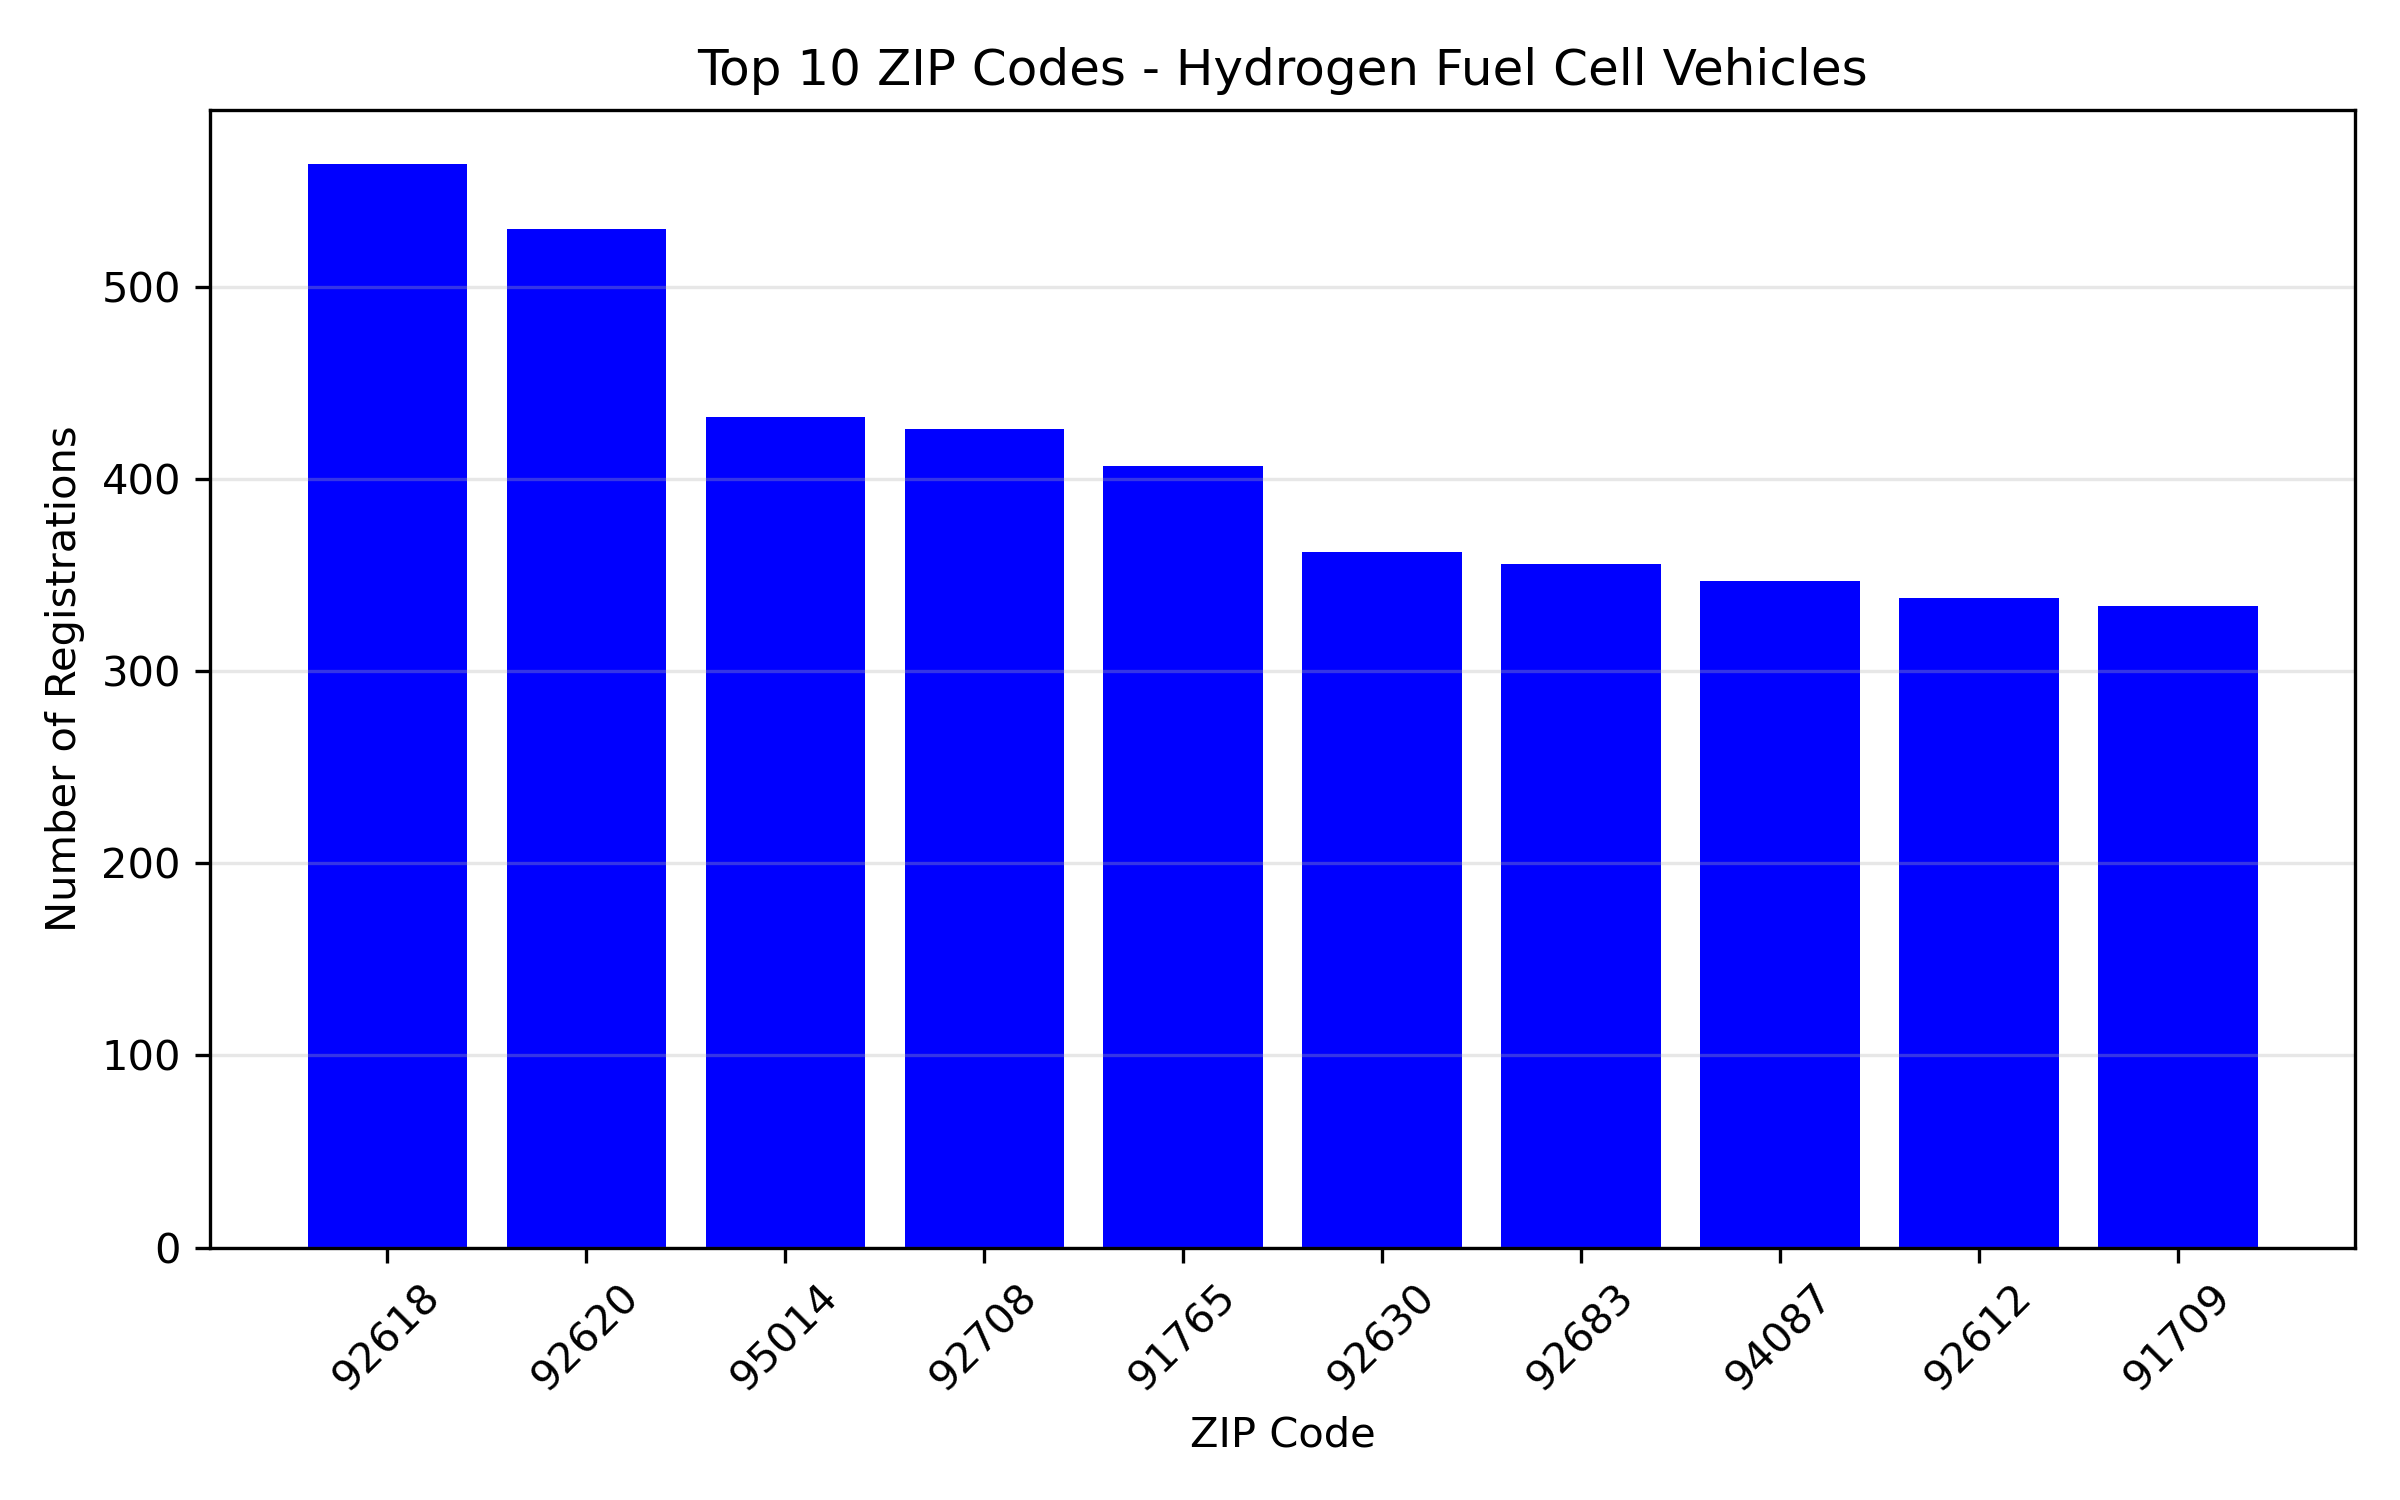
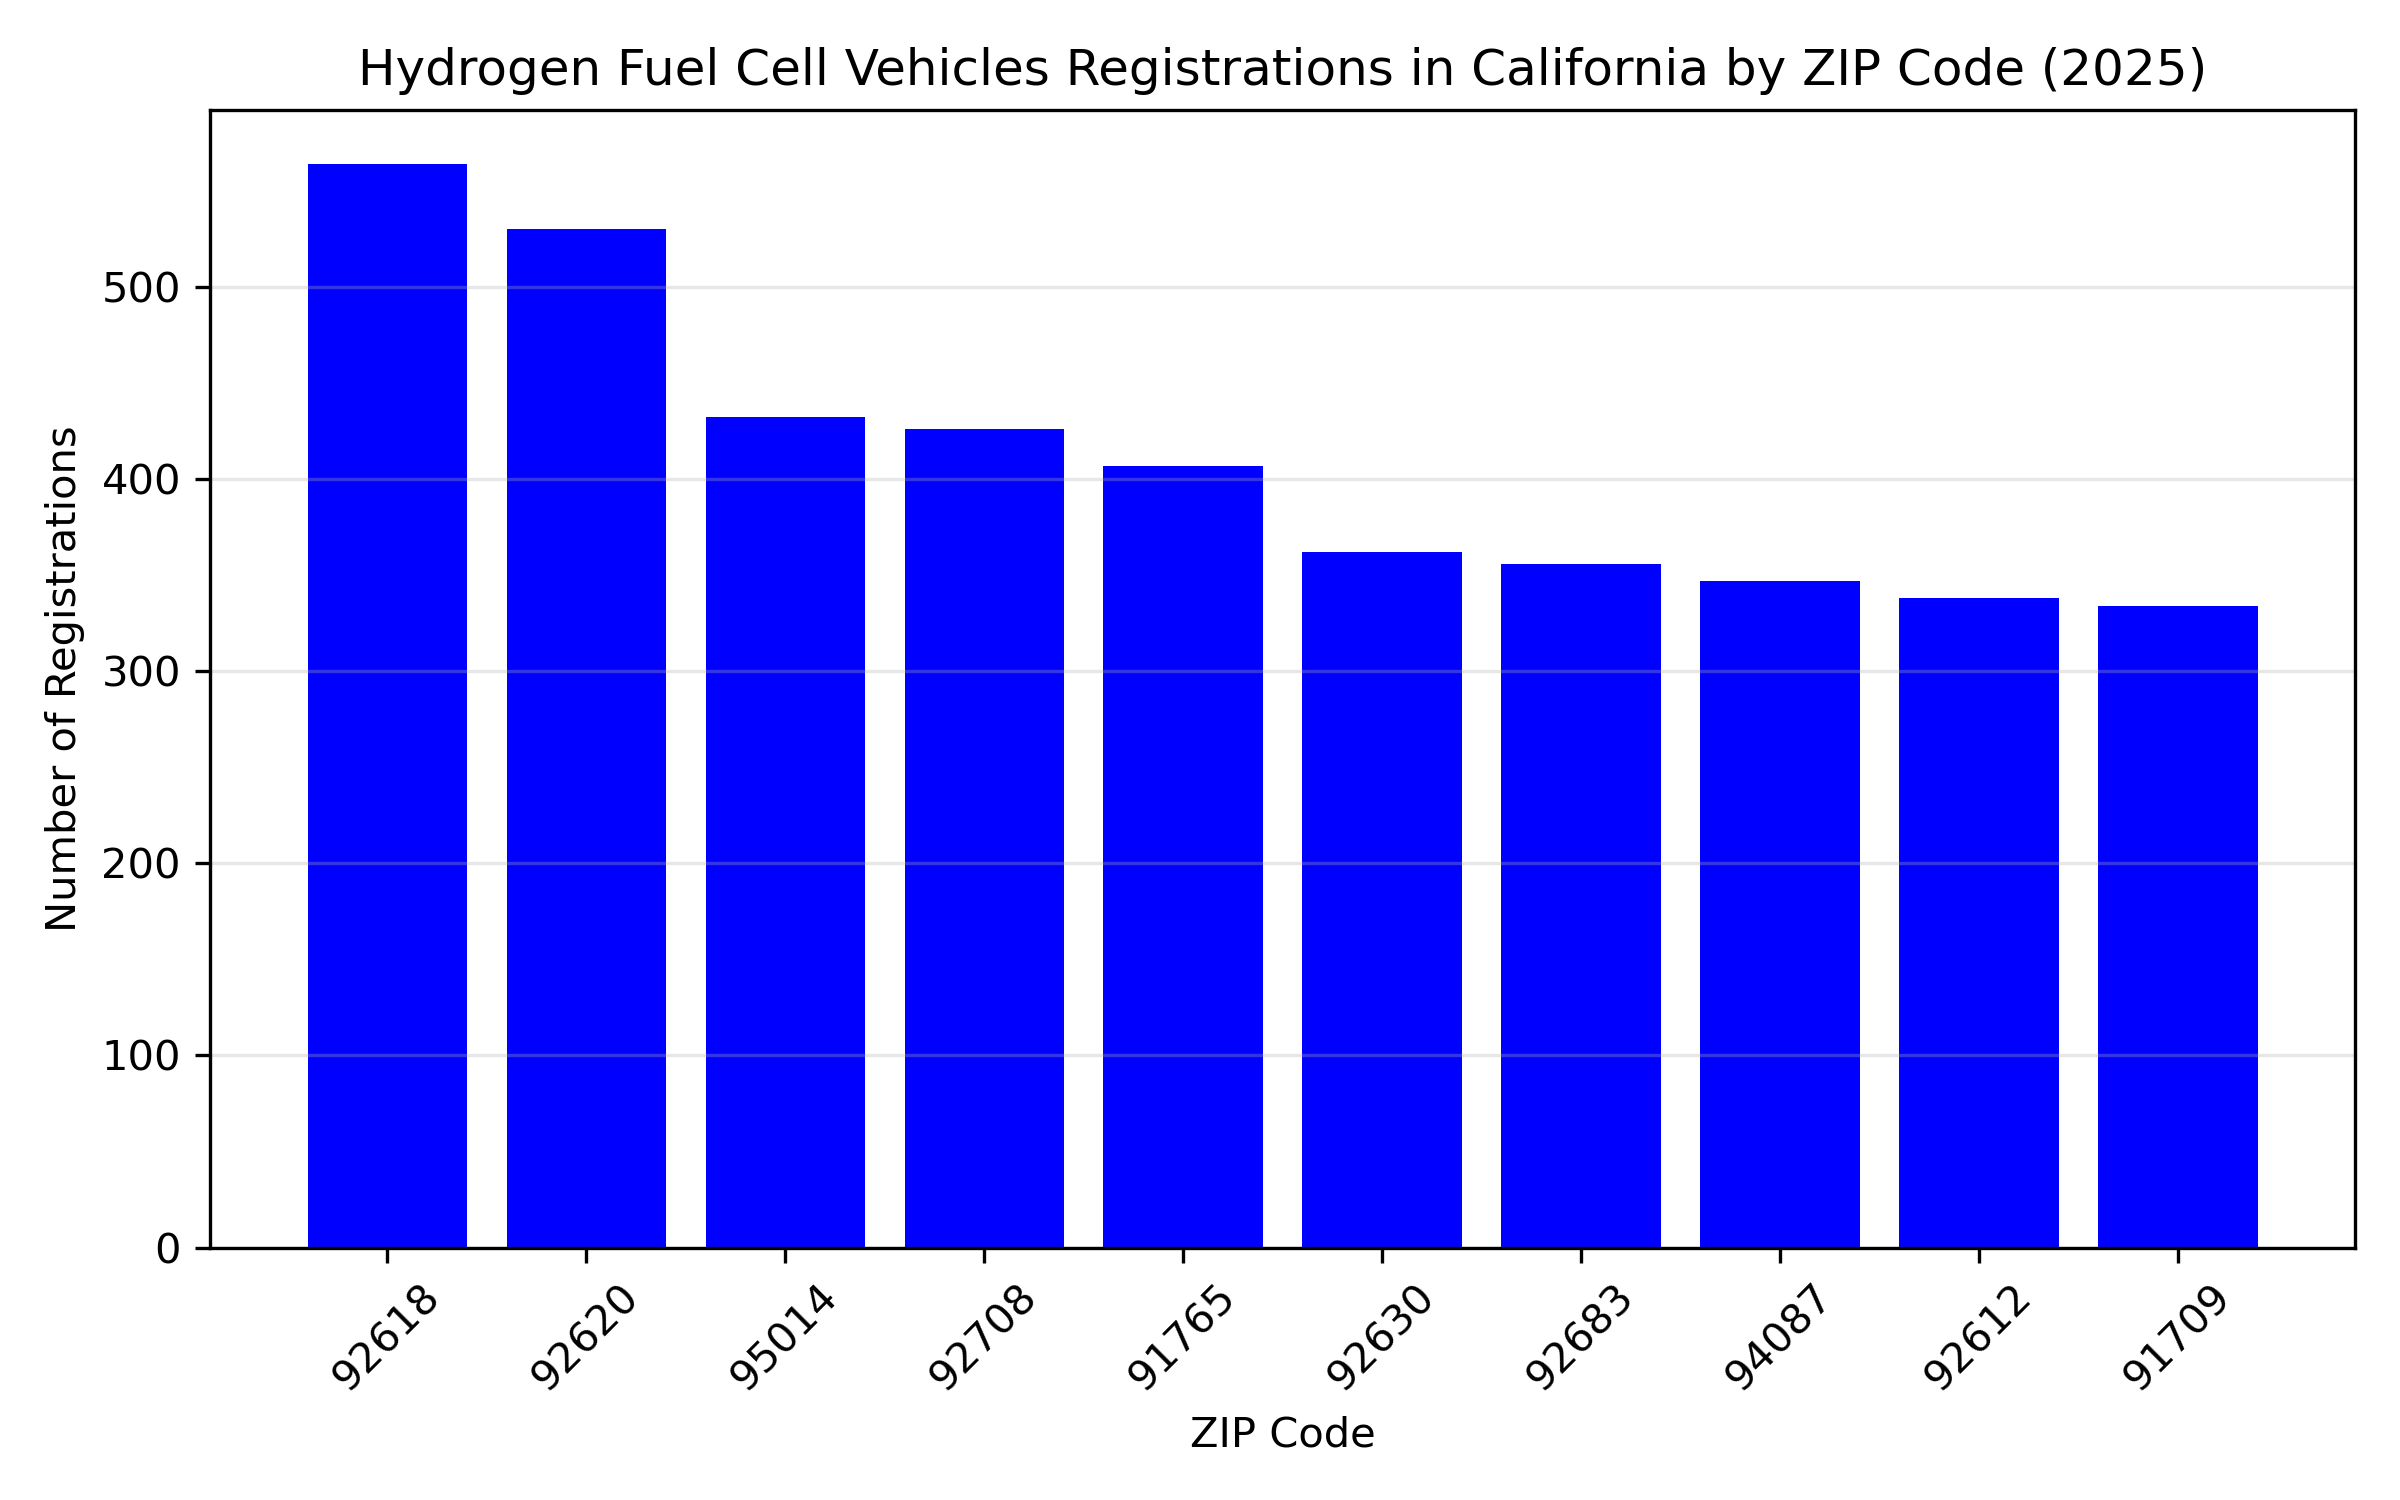
a

Changed region(s): [[0.1562, 0.0307, 0.9375, 0.0613]]

diff --git a/registration_analysis.py b/registration_analysis.py
@@ -139,7 +139,7 @@ plt.figure(figsize=(8,5))
 plt.bar(bev_zip["zip"], bev_zip["vehicles"], color="green")
 
 # Set chart title
-plt.title("Top 10 ZIP Codes - Battery Electric Vehicles")
+plt.title("Battery Electric Vehicles Registrations in California by Zip Code (2025)")
 # Label x-axis
 plt.xlabel("ZIP Code")
 # Label y-axis
@@ -172,7 +172,7 @@ plt.figure(figsize=(8,5))
 plt.bar(h2_zip["zip"], h2_zip["vehicles"], color="blue")
 
 # chart title
-plt.title("Top 10 ZIP Codes - Hydrogen Fuel Cell Vehicles")
+plt.title("Hydrogen Fuel Cell Vehicles Registrations in California by ZIP Code (2025)")
 # Label x-axis
 plt.xlabel("ZIP Code")
 # Label y-axis

diff --git a/stat_analysis.py b/stat_analysis.py
@@ -62,7 +62,7 @@ plt.plot(
     color="blue"
 )
 # Chart title
-plt.title("Electric Station Growth (2020–2025)")
+plt.title("Electric Vehicle Station Growth (2020–2025)")
 # Labels x-axis
 plt.xlabel("Year")
 # Labels y-axis
@@ -90,7 +90,7 @@ plt.plot(
 )
 
 # Sets chart title
-plt.title("Hydrogen Station Growth (2020–2025)")
+plt.title("Hydrogen Fuel Cell Station Growth (2020–2025)")
 # Labels x-axis
 plt.xlabel("Year")
 # Labels y-axis
